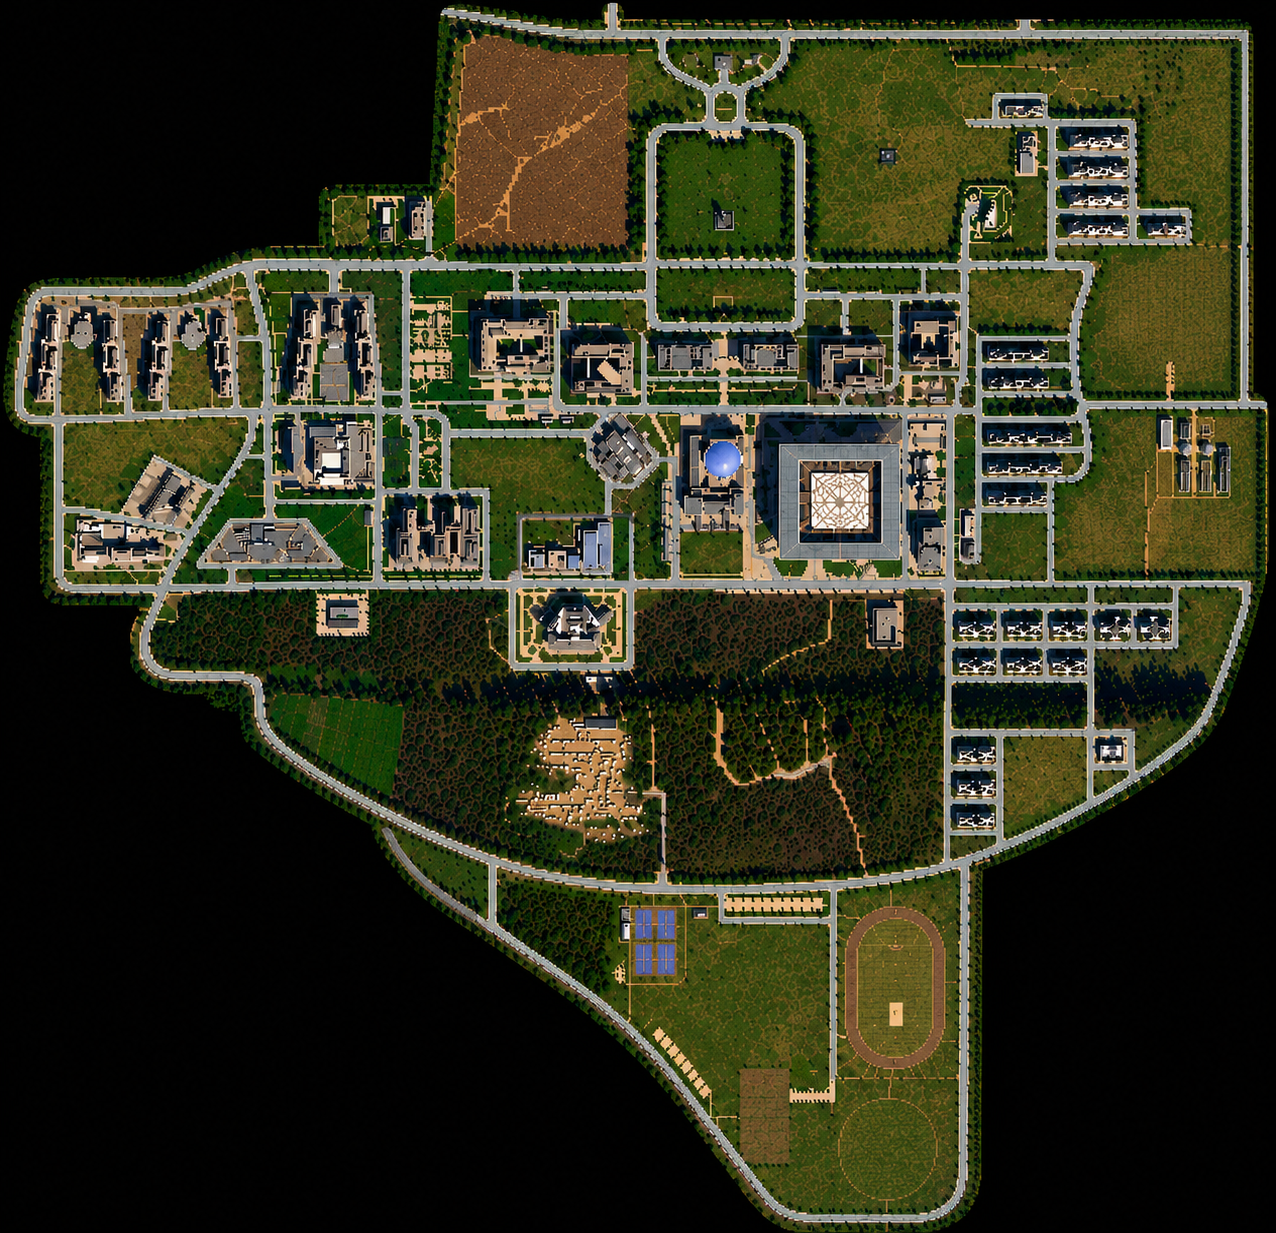
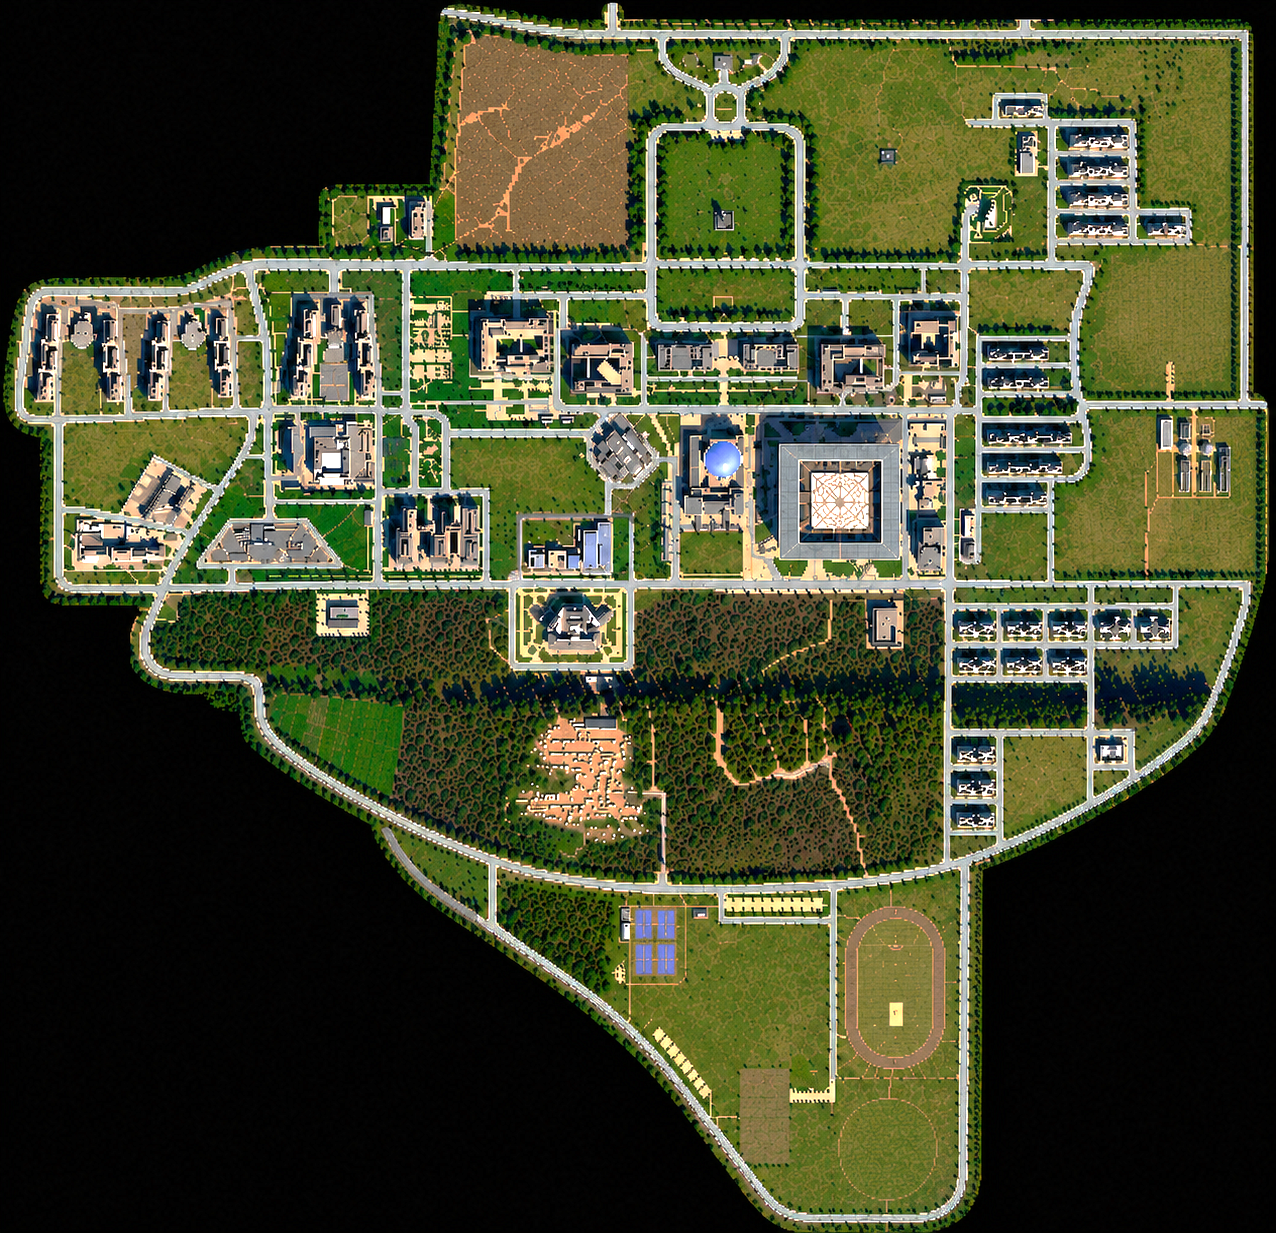
path algos

diff --git a/backend/nav_graph.py b/backend/nav_graph.py
@@ -1,0 +1,159 @@
+import json
+import sys
+from collections import deque
+from pathlib import Path
+from PIL import Image, ImageDraw, ImageFont
+import matplotlib.pyplot as plt
+
+COLS = 319
+ROWS = 411
+TILE_W = 4
+TILE_H = 3
+
+BASE_DIR = Path(__file__).resolve().parent
+FRONTEND_DIR = BASE_DIR.parent / "frontend"
+
+with open(FRONTEND_DIR / "agent_path_tiles.json") as f:
+    data = json.load(f)
+TRAVERSABLE = set(data["traversable_tiles"])
+
+
+def neighbors(tile_id):
+    col = tile_id % COLS
+    row = tile_id // COLS
+    nbrs = []
+    if row > 0:
+        n = (row - 1) * COLS + col
+        if n in TRAVERSABLE: nbrs.append(n)
+    if row < ROWS - 1:
+        n = (row + 1) * COLS + col
+        if n in TRAVERSABLE: nbrs.append(n)
+    if col > 0:
+        n = row * COLS + (col - 1)
+        if n in TRAVERSABLE: nbrs.append(n)
+    if col < COLS - 1:
+        n = row * COLS + (col + 1)
+        if n in TRAVERSABLE: nbrs.append(n)
+    return nbrs
+
+
+def shortest_path(start_id, end_id):
+    if start_id not in TRAVERSABLE or end_id not in TRAVERSABLE:
+        return None
+    q = deque([(start_id, [start_id])])
+    seen = {start_id}
+    while q:
+        cur, path = q.popleft()
+        if cur == end_id:
+            return path
+        for n in neighbors(cur):
+            if n not in seen:
+                seen.add(n)
+                q.append((n, path + [n]))
+    return None
+
+
+def tile_center(tile_id):
+    return ((tile_id % COLS) * TILE_W + TILE_W // 2,
+            (tile_id // COLS) * TILE_H + TILE_H // 2)
+
+
+def find_components():
+    unvisited = set(TRAVERSABLE)
+    comps = []
+    while unvisited:
+        seed = next(iter(unvisited))
+        q = [seed]
+        comp = set()
+        while q:
+            cur = q.pop()
+            if cur not in unvisited:
+                continue
+            unvisited.remove(cur)
+            comp.add(cur)
+            for nb in neighbors(cur):
+                if nb in unvisited:
+                    q.append(nb)
+        comps.append(comp)
+    comps.sort(key=len, reverse=True)
+    return comps
+
+
+def show_path_on_map(path):
+    img = Image.open(FRONTEND_DIR / "map.png").convert("RGBA")
+    overlay = Image.new("RGBA", img.size, (0, 0, 0, 0))
+    draw = ImageDraw.Draw(overlay)
+
+    for tid in TRAVERSABLE:
+        col = tid % COLS
+        row = tid // COLS
+        x0, y0 = col * TILE_W, row * TILE_H
+        draw.rectangle([x0, y0, x0 + TILE_W - 1, y0 + TILE_H - 1], fill=(0, 255, 0, 20))
+
+    if path:
+        pts = [tile_center(t) for t in path]
+        draw.line(pts, fill=(255, 30, 30, 255), width=3)
+
+        sx, sy = tile_center(path[0])
+        ex, ey = tile_center(path[-1])
+        r = 6
+        draw.ellipse([sx - r, sy - r, sx + r, sy + r], fill=(0, 220, 0, 255))
+        draw.ellipse([ex - r, ey - r, ex + r, ey + r], fill=(30, 100, 255, 255))
+
+        try:
+            font = ImageFont.truetype("arial.ttf", 14)
+        except (IOError, OSError):
+            font = ImageFont.load_default()
+        draw.text((sx + 8, sy - 8), "S", fill=(0, 220, 0, 255), font=font)
+        draw.text((ex + 8, ey - 8), "E", fill=(30, 100, 255, 255), font=font)
+
+    composited = Image.alpha_composite(img, overlay).convert("RGB")
+
+    plt.figure(figsize=(14, 14))
+    plt.imshow(composited)
+    plt.axis("off")
+    plt.tight_layout(pad=0)
+    plt.show()
+
+
+if __name__ == "__main__":
+    cmds = [a for a in sys.argv[1:] if not a.startswith("--")]
+    flags = set(a for a in sys.argv[1:] if a.startswith("--"))
+
+    if "--help" in flags or "-h" in flags:
+        print("Usage: python backend/nav_graph.py [start_tile_id end_tile_id]")
+        print()
+        print("  start_tile_id end_tile_id    pair of tile IDs to pathfind between")
+        print("  --components                 list connected components and exit")
+        sys.exit(0)
+
+    if "--components" in flags:
+        comps = find_components()
+        print(f"Connected components: {len(comps)}")
+        for i, c in enumerate(comps):
+            print(f"  {i}: {len(c)} tiles")
+        sys.exit(0)
+
+    if len(cmds) >= 2:
+        start, end = int(cmds[0]), int(cmds[1])
+    else:
+        start, end = 30953, 128158
+
+    print(f"Graph: {len(TRAVERSABLE)} nodes")
+    print(f"Path: {start} -> {end}  "
+          f"(col={start%COLS}, row={start//COLS}) -> "
+          f"(col={end%COLS}, row={end//COLS})")
+
+    path = shortest_path(start, end)
+    if path:
+        print(f"Found: {len(path)} tiles")
+        print("Displaying map...")
+        show_path_on_map(path)
+    else:
+        print("No path found (tiles are in different connected components)")
+        comps = find_components()
+        for i, c in enumerate(comps):
+            if start in c:
+                print(f"  start is in component {i} ({len(c)} tiles)")
+            if end in c:
+                print(f"  end is in component {i} ({len(c)} tiles)")
